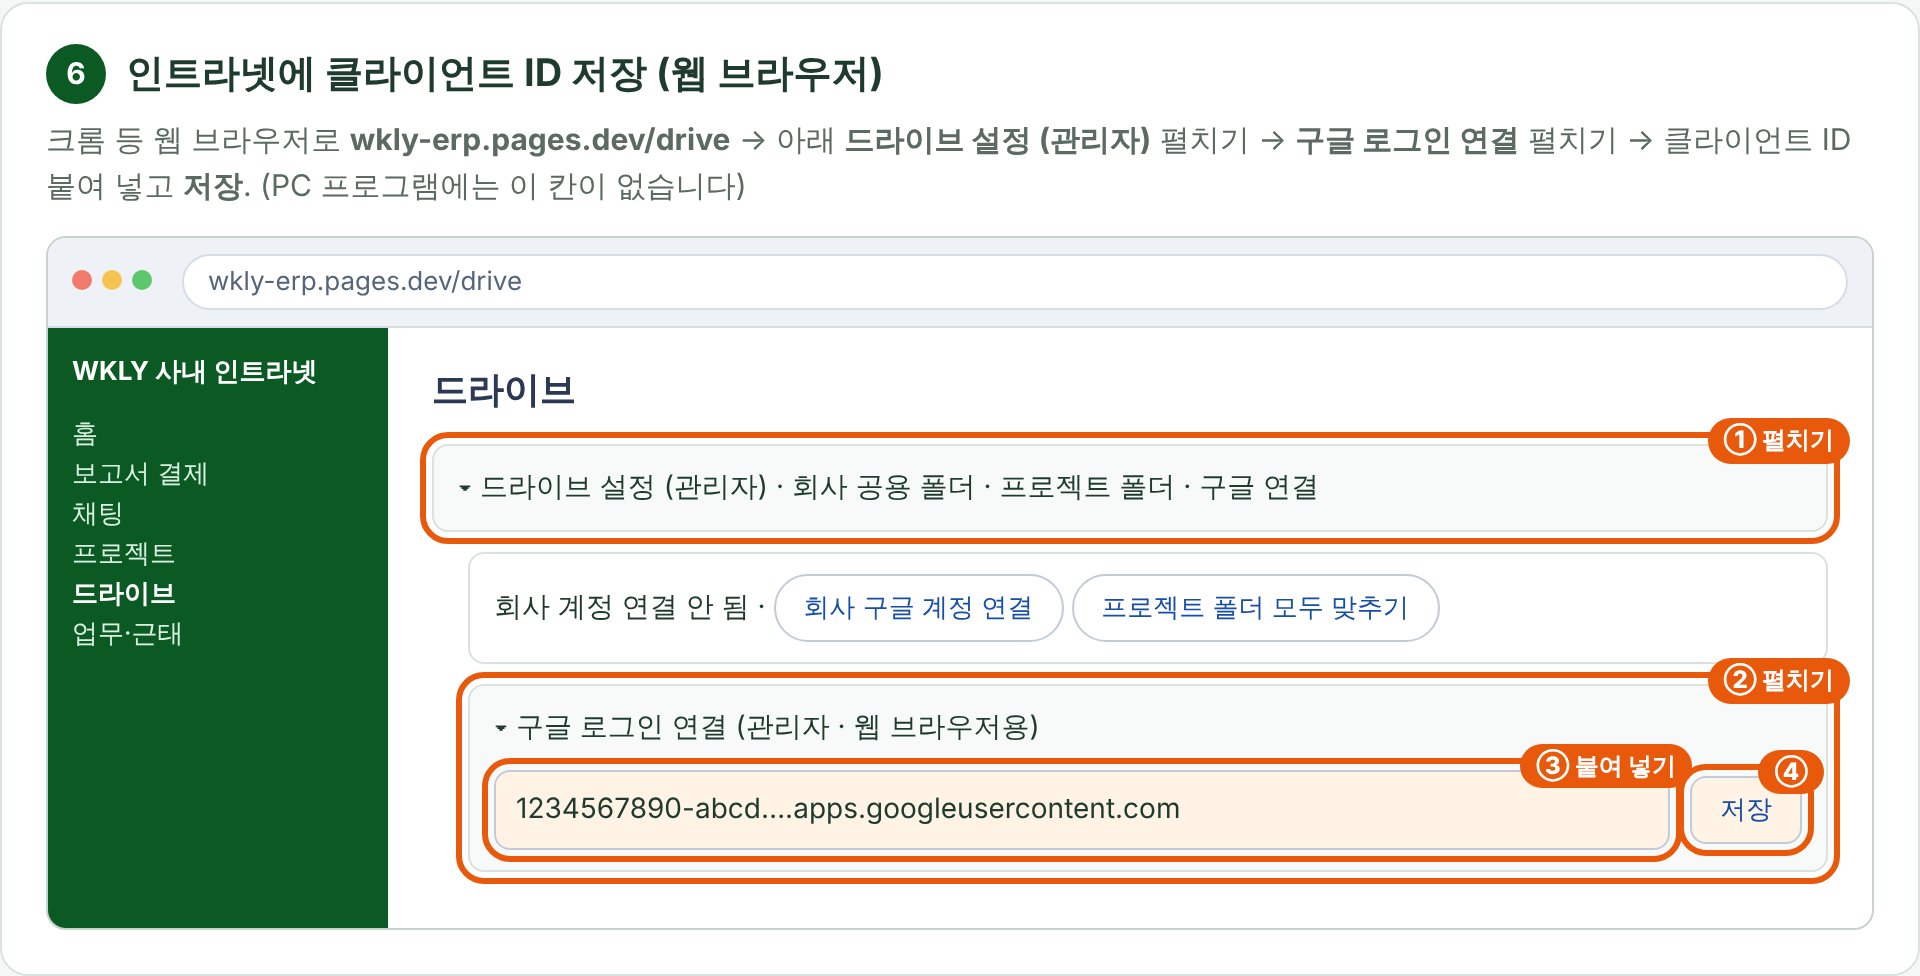
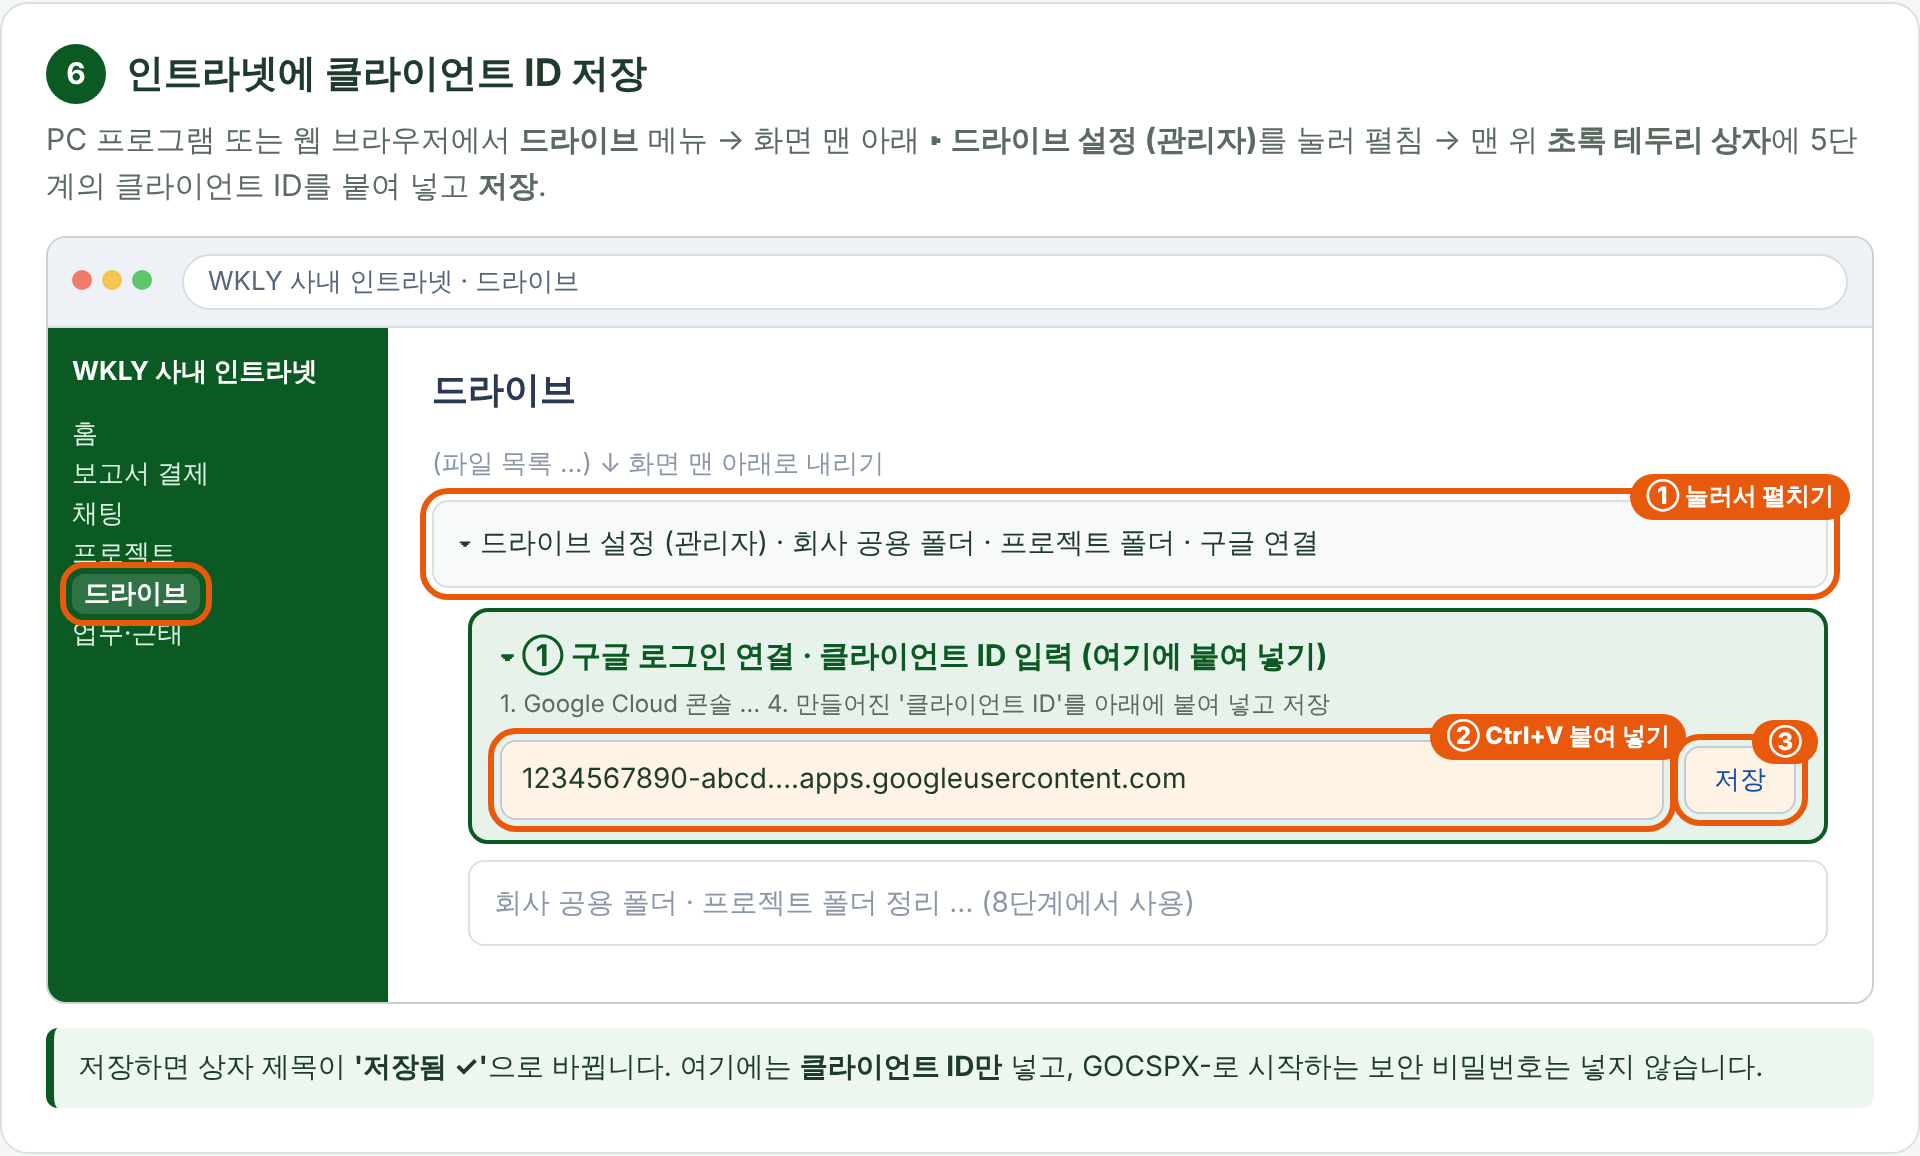
드라이브 연결 안내 6단계 그림 새 화면에 맞춤
Claude-Session: https://claude.ai/code/session_01F3gTQwJrgJEzSdbh5GAwru

diff --git a/erp/public/guide/drive/index.html b/erp/public/guide/drive/index.html
@@ -105,16 +105,20 @@ h1{font-size:24px;margin:0 0 4px}.lead{color:var(--sub);margin:0 0 20px}
 <div class="note warn">보안 비밀번호(GOCSPX-…)는 대표님만 보관하세요. 채팅이나 메일로 보내지 않습니다.</div></section>
 
 <!-- 6 -->
-<section class="step" id="s6"><h2><span class="n">6</span>인트라넷에 클라이언트 ID 저장 (웹 브라우저)</h2>
-<p class="d">크롬 등 웹 브라우저로 <b>wkly-erp.pages.dev/drive</b> → 아래 <b>드라이브 설정 (관리자)</b> 펼치기 → <b>구글 로그인 연결</b> 펼치기 → 클라이언트 ID 붙여 넣고 <b>저장</b>. (PC 프로그램에는 이 칸이 없습니다)</p>
-<div class="screen"><div class="bar"><span class="dots"><i></i><i></i><i></i></span><span class="url">wkly-erp.pages.dev/drive</span></div>
-<div class="intra"><div class="nav"><b>WKLY 사내 인트라넷</b>홈<br>보고서 결제<br>채팅<br>프로젝트<br><span style="color:#fff;font-weight:700">드라이브</span><br>업무·근태</div>
+<section class="step" id="s6"><h2><span class="n">6</span>인트라넷에 클라이언트 ID 저장</h2>
+<p class="d">PC 프로그램 또는 웹 브라우저에서 <b>드라이브</b> 메뉴 → 화면 맨 아래 <b>▸ 드라이브 설정 (관리자)</b>를 눌러 펼침 → 맨 위 <b>초록 테두리 상자</b>에 5단계의 클라이언트 ID를 붙여 넣고 <b>저장</b>.</p>
+<div class="screen"><div class="bar"><span class="dots"><i></i><i></i><i></i></span><span class="url">WKLY 사내 인트라넷 · 드라이브</span></div>
+<div class="intra"><div class="nav"><b>WKLY 사내 인트라넷</b>홈<br>보고서 결제<br>채팅<br>프로젝트<br><span style="color:#fff;font-weight:700;background:#ffffff26;border-radius:6px;padding:2px 6px" class="hl">드라이브</span><br>업무·근태</div>
 <div class="main"><h3>드라이브</h3>
-<div class="det open hl" style="position:relative">▾ 드라이브 설정 (관리자) · 회사 공용 폴더 · 프로젝트 폴더 · 구글 연결<span class="tag">① 펼치기</span></div>
-<div class="det" style="margin-left:18px">회사 계정 연결 안 됨 · <span class="btn">회사 구글 계정 연결</span> <span class="btn">프로젝트 폴더 모두 맞추기</span></div>
-<div class="det open hl" style="margin-left:18px;position:relative">▾ 구글 로그인 연결 (관리자 · 웹 브라우저용)<span class="tag">② 펼치기</span>
-<div class="row" style="margin-top:10px"><div class="inp hl" style="flex:1;position:relative">1234567890-abcd….apps.googleusercontent.com<span class="tag">③ 붙여 넣기</span></div><span class="btn hl" style="position:relative">저장<span class="tag">④</span></span></div></div>
-</div></div></div></section>
+<div style="color:#8a97a8;font-size:13px;margin-bottom:8px">(파일 목록 …) ↓ 화면 맨 아래로 내리기</div>
+<div class="det open hl" style="position:relative">▾ 드라이브 설정 (관리자) · 회사 공용 폴더 · 프로젝트 폴더 · 구글 연결<span class="tag">① 눌러서 펼치기</span></div>
+<div style="border:2px solid #0b5a24;border-radius:10px;padding:10px 14px;background:#e6f2ea;margin:8px 0 8px 18px">
+<b style="color:#0b5a24">▾ ① 구글 로그인 연결 · 클라이언트 ID 입력 (여기에 붙여 넣기)</b>
+<div class="t-cap" style="font-size:12px;color:#5b6b62;margin:4px 0 8px">1. Google Cloud 콘솔 … 4. 만들어진 '클라이언트 ID'를 아래에 붙여 넣고 저장</div>
+<div class="row"><div class="inp hl" style="flex:1;position:relative">1234567890-abcd….apps.googleusercontent.com<span class="tag">② Ctrl+V 붙여 넣기</span></div><span class="btn hl" style="position:relative">저장<span class="tag">③</span></span></div></div>
+<div class="det" style="margin-left:18px;color:#8a97a8">회사 공용 폴더 · 프로젝트 폴더 정리 … (8단계에서 사용)</div>
+</div></div></div>
+<div class="note">저장하면 상자 제목이 <b>'저장됨 ✓'</b>으로 바뀝니다. 여기에는 <b>클라이언트 ID만</b> 넣고, GOCSPX-로 시작하는 보안 비밀번호는 넣지 않습니다.</div></section>
 
 <!-- 7 -->
 <section class="step" id="s7"><h2><span class="n">7</span>Supabase 금고(Vault)에 보안 비밀번호 저장</h2>
